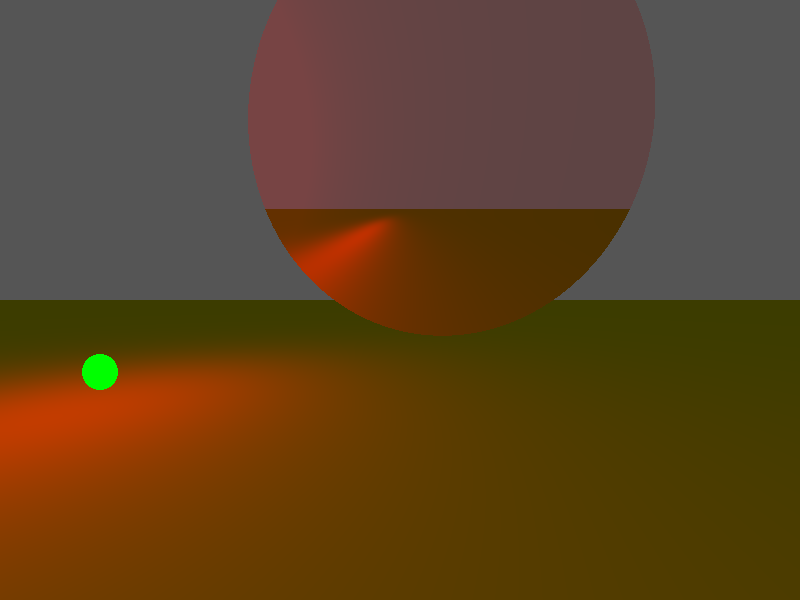
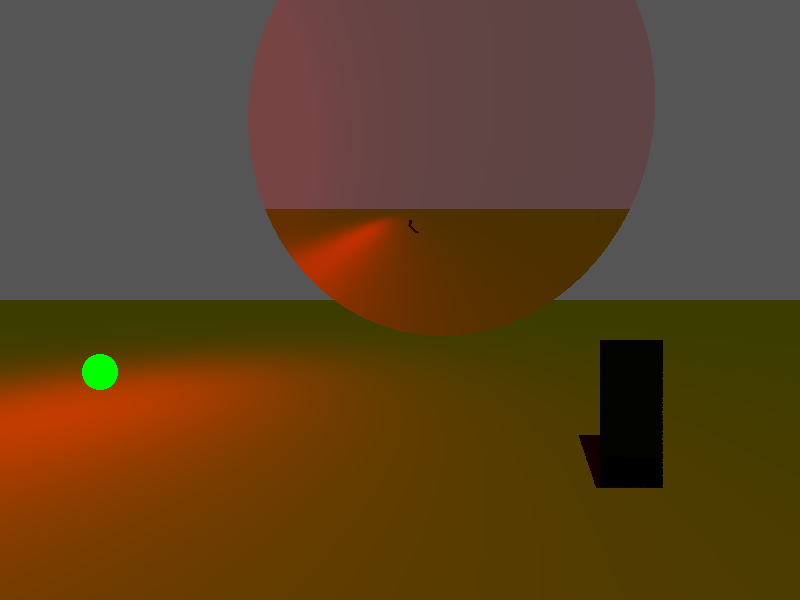
Add AABB shapes (that do not make sense currently)
- They do not make sense since surface normal isn't calculated
  correctly. Instead, we just assume that any point hit is on the normal
  of the camera direction. This breaks shadows and reflections.

- AABB will mostly be used for calculating hit boxes later. Should I
  split Intersectable into two? One for physical entities and one for
  mathematical ones?

- Ray now contains a few fields to enable optimizations on AABB
  intersection calculations. They don't look very intuitive at all, to
  be honest.

Changed region(s): [[0.7188, 0.54, 0.8438, 0.84]]

diff --git a/raingun-lib/src/bodies.rs b/raingun-lib/src/bodies.rs
@@ -29,10 +29,17 @@ pub struct Disk {
 }
 
 #[derive(Debug, Clone, Deserialize)]
+pub struct AABB {
+    pub bounds: [Point3; 2],
+    pub material: Material,
+}
+
+#[derive(Debug, Clone, Deserialize)]
 pub enum Body {
     Sphere(Sphere),
     Plane(Plane),
     Disk(Disk),
+    AABB(AABB),
 }
 
 impl Body {
@@ -41,6 +48,7 @@ impl Body {
             Body::Sphere(ref sphere) => &sphere.material,
             Body::Plane(ref plane) => &plane.material,
             Body::Disk(ref disk) => &disk.material,
+            Body::AABB(ref aabb) => &aabb.material,
         }
     }
 
@@ -200,12 +208,69 @@ impl Intersectable for Disk {
     }
 }
 
+impl Intersectable for AABB {
+    fn intersect(&self, ray: &Ray) -> Option<f64> {
+        let mut tmin = (self.bounds[ray.x_sign()].x - ray.origin.x) * ray.inverted_direction.x;
+        let mut tmax = (self.bounds[1 - ray.x_sign()].x - ray.origin.x) * ray.inverted_direction.x;
+
+        let tymin = (self.bounds[ray.y_sign()].y - ray.origin.y) * ray.inverted_direction.y;
+        let tymax = (self.bounds[1 - ray.y_sign()].y - ray.origin.y) * ray.inverted_direction.y;
+
+        if tmin > tymax || tymin > tmax {
+            return None;
+        }
+
+        if tymin > tmin {
+            tmin = tymin;
+        }
+        if tymax < tmax {
+            tmax = tymax;
+        }
+
+        let tzmin = (self.bounds[ray.z_sign()].z - ray.origin.z) * ray.inverted_direction.z;
+        let tzmax = (self.bounds[1 - ray.z_sign()].z - ray.origin.z) * ray.inverted_direction.z;
+
+        if tmin > tzmax || tzmin > tmax {
+            return None;
+        }
+
+        if tzmin > tmin {
+            tmin = tzmin;
+        }
+
+        if tzmax < tmax {
+            tmax = tzmax;
+        }
+
+        let mut distance = tmin;
+        if distance < 0.0 {
+            distance = tmax;
+            if distance < 0.0 {
+                return None;
+            }
+        }
+
+        Some(distance)
+    }
+
+    fn surface_normal(&self, _hit_point: &Point3) -> Vector3 {
+        // TODO: Can we calculate this somehow?
+        Vector3::unit_z()
+    }
+
+    fn texture_coords(&self, _hit_point: &Point3) -> TextureCoords {
+        // TODO: Can we calculate this somehow?
+        TextureCoords { x: 0.0, y: 0.0 }
+    }
+}
+
 impl Intersectable for Body {
     fn intersect(&self, ray: &Ray) -> Option<f64> {
         match *self {
             Body::Sphere(ref sphere) => sphere.intersect(ray),
             Body::Plane(ref plane) => plane.intersect(ray),
             Body::Disk(ref disk) => disk.intersect(ray),
+            Body::AABB(ref aabb) => aabb.intersect(ray),
         }
     }
 
@@ -214,6 +279,7 @@ impl Intersectable for Body {
             Body::Sphere(ref sphere) => sphere.surface_normal(hit_point),
             Body::Plane(ref plane) => plane.surface_normal(hit_point),
             Body::Disk(ref disk) => disk.surface_normal(hit_point),
+            Body::AABB(ref aabb) => aabb.surface_normal(hit_point),
         }
     }
 
@@ -222,6 +288,7 @@ impl Intersectable for Body {
             Body::Sphere(ref sphere) => sphere.texture_coords(hit_point),
             Body::Plane(ref plane) => plane.texture_coords(hit_point),
             Body::Disk(ref disk) => disk.texture_coords(hit_point),
+            Body::AABB(ref aabb) => aabb.texture_coords(hit_point),
         }
     }
 }

diff --git a/raingun-lib/src/ray.rs b/raingun-lib/src/ray.rs
@@ -5,9 +5,35 @@ use cgmath::prelude::*;
 pub struct Ray {
     pub origin: Point3,
     pub direction: Vector3,
+
+    // Inverted direction is sometimes used to calculate intersections, so pre-calculate it to
+    // optimize those checks.
+    pub inverted_direction: Vector3,
+
+    // This is a special structure for AABB boxes intersection checks. As AABB boxes (e.g. hit
+    // boxes) will be very very common, it is worth pre-calculating some things for them and store
+    // them inside the rays.
+    //
+    // What it represents is [x, y, z] signs, where the sign is either 0 or 1. It's 0 when the
+    // direction is negative or zero in that axis, or 1 if the direction is positive.
+    pub signs: [usize; 3],
 }
 
 impl Ray {
+    pub fn new(origin: Point3, direction: Vector3) -> Ray {
+        let invdir = 1.0 / direction;
+        let x_sign = if invdir.x < 0.0 { 1 } else { 0 };
+        let y_sign = if invdir.y < 0.0 { 1 } else { 0 };
+        let z_sign = if invdir.z < 0.0 { 1 } else { 0 };
+
+        Ray {
+            origin: origin,
+            direction: direction,
+            inverted_direction: invdir,
+            signs: [x_sign, y_sign, z_sign],
+        }
+    }
+
     pub fn create_prime(x: u32, y: u32, scene: &Scene, width: u32, height: u32) -> Ray {
         // Represent the camera's sensor with -1.0 at 0,0 and 1.0 at width,height.
         // Then adjust for aspect ratio and FoV
@@ -22,18 +48,15 @@ impl Ray {
                        fov_adjustment;
         let sensor_y = (1.0 - ((y as f64 + 0.5) / height as f64) * 2.0) * fov_adjustment;
 
-        Ray {
-            origin: Point3::origin(),
-            // Ray direction is straight into image (z = -1.0)
-            direction: Vector3::new(sensor_x, sensor_y, -1.0).normalize(),
-        }
+        // Ray direction is straight into image (z = -1.0)
+        let direction = Vector3::new(sensor_x, sensor_y, -1.0).normalize();
+        Ray::new(Point3::origin(), direction)
     }
 
     pub fn create_reflection(normal: Vector3, incident: Vector3, intersection: Point3) -> Ray {
-        Ray {
-            origin: intersection + (normal * SHADOW_BIAS),
-            direction: incident - (2.0 * incident.dot(normal) * normal),
-        }
+        let origin = intersection + (normal * SHADOW_BIAS);
+        let direction = incident - (2.0 * incident.dot(normal) * normal);
+        Ray::new(origin, direction)
     }
 
     pub fn create_transmission(normal: Vector3,
@@ -63,10 +86,22 @@ impl Ray {
         if k < 0.0 {
             None
         } else {
-            Some(Ray {
-                     origin: intersection + (ref_n * -bias),
-                     direction: (incident + i_dot_n * ref_n) * eta - ref_n * k.sqrt(),
-                 })
+            let origin = intersection + (ref_n * -bias);
+            let direction = (incident + i_dot_n * ref_n) * eta - ref_n * k.sqrt();
+
+            Some(Ray::new(origin, direction))
         }
+    }
+
+    pub fn x_sign(&self) -> usize {
+        self.signs[0]
+    }
+
+    pub fn y_sign(&self) -> usize {
+        self.signs[1]
+    }
+
+    pub fn z_sign(&self) -> usize {
+        self.signs[2]
     }
 }

diff --git a/raingun-lib/src/scene.rs b/raingun-lib/src/scene.rs
@@ -144,10 +144,8 @@ fn shade_diffuse(scene: &Scene,
         // by a body.
         // Place origin ever so slightly above the hitpoint to avoid floating point errors where the
         // origin is inside the body itself, so the ray intersects with itself.
-        let shadow_ray = Ray {
-            origin: hit_point + (surface_normal * SHADOW_BIAS),
-            direction: direction_to_light,
-        };
+        let shadow_ray = Ray::new(hit_point + (surface_normal * SHADOW_BIAS),
+                                  direction_to_light);
         let shadow_intersection = scene.trace(&shadow_ray);
 
         let in_light = match shadow_intersection {
